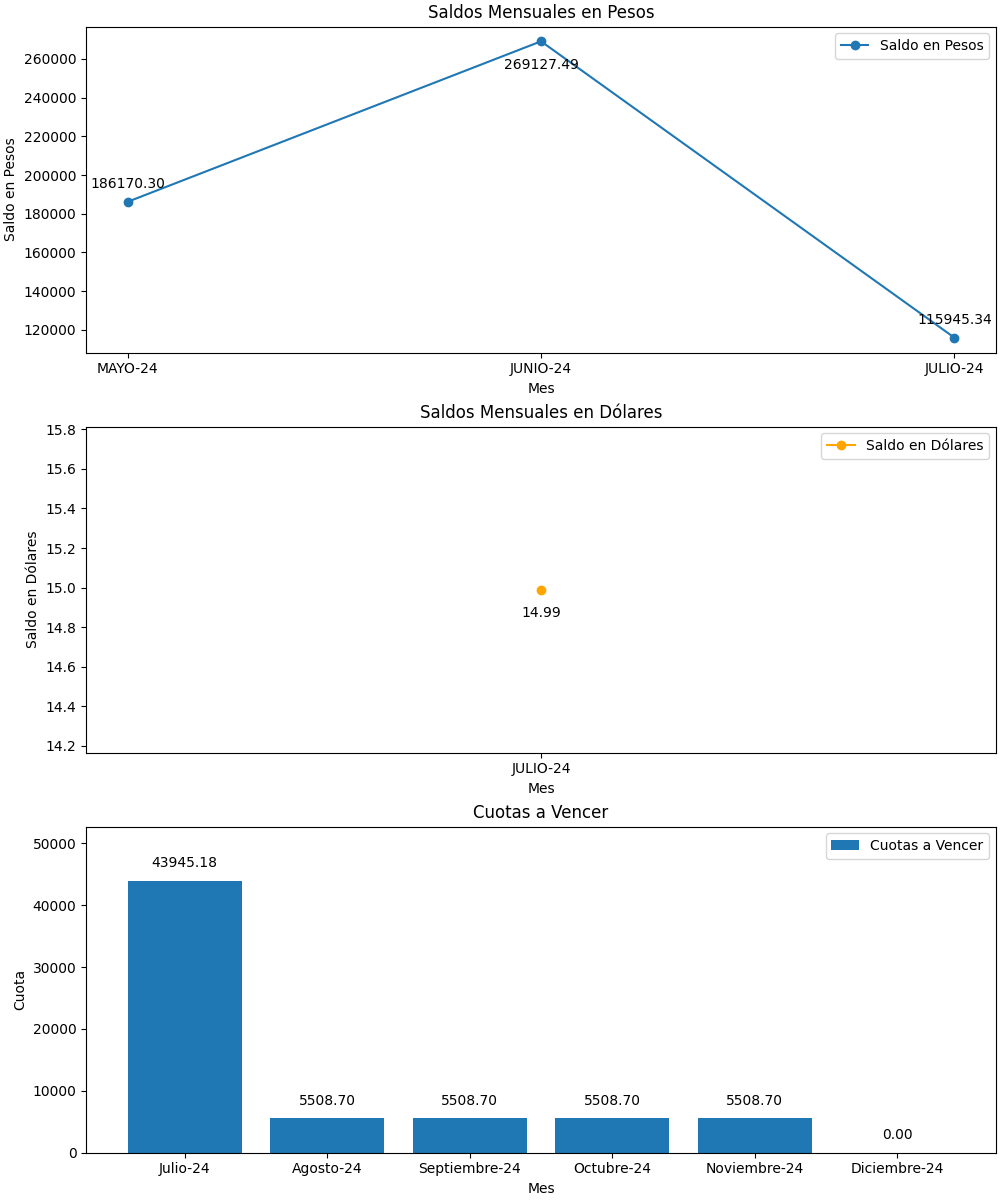
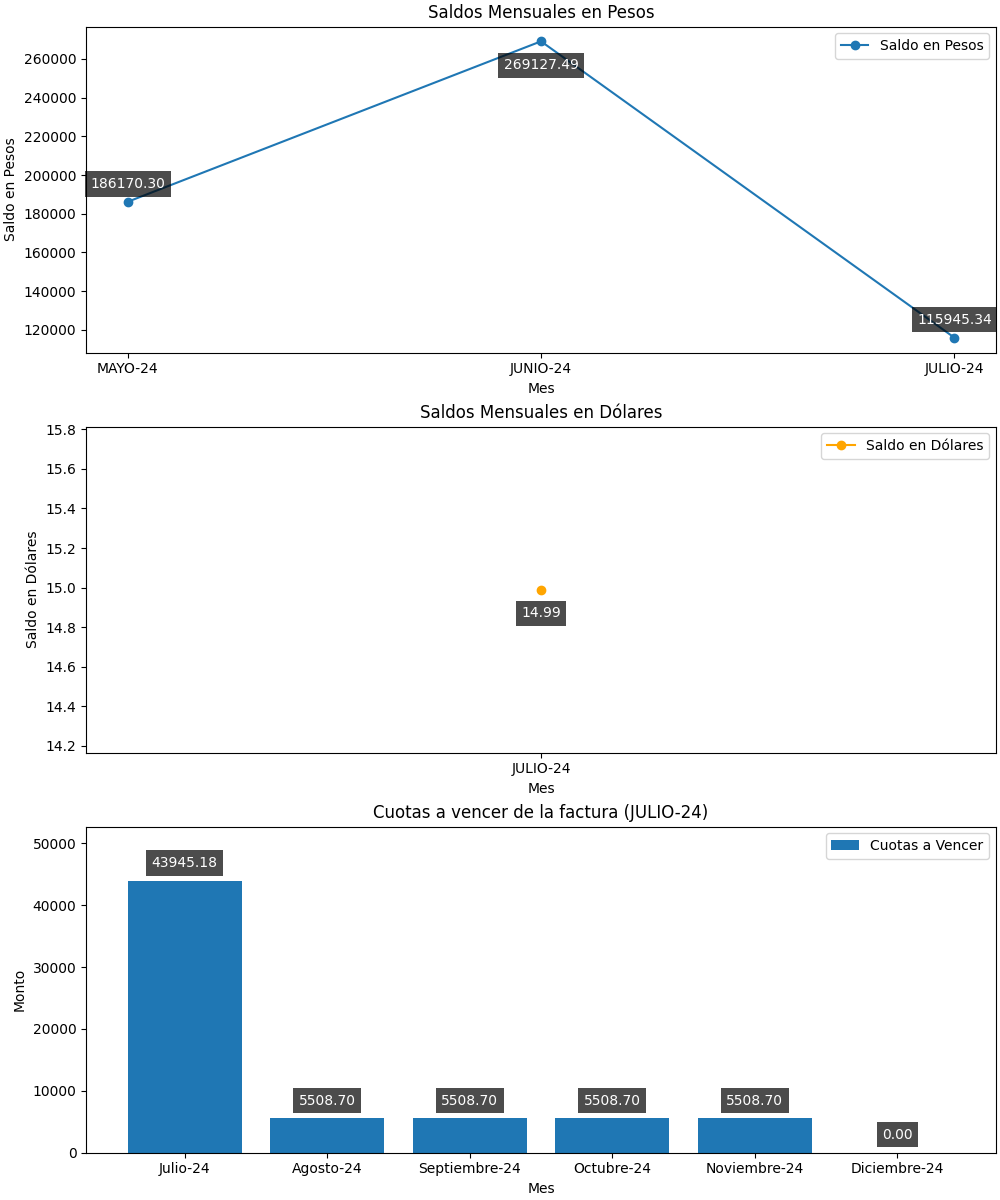
se mejora la lógica del código

diff --git a/main.py b/main.py
@@ -6,6 +6,7 @@ import os
 import matplotlib.pyplot as plt
 from datetime import datetime
 
+
 # Mapa de traducción de meses en español a inglés
 MONTH_TRANSLATION = {
     "ENERO": "January",
@@ -22,12 +23,14 @@ MONTH_TRANSLATION = {
     "DICIEMBRE": "December"
 }
 
+
 # Convertir los valores de los saldo a flotantes
 def convert_to_float(value):
     try:
         return float(round(Decimal(value.replace('.', '').replace(',', '.')), 2))
     except InvalidOperation:
         return None
+
 
 # Abrir factura
 def extract_text_from_pdf(pdf_file_path):
@@ -50,7 +53,8 @@ def extract_text_from_pdf(pdf_file_path):
         print(f'Error processing the file {pdf_file_path}: {e}')
         return None
 
-        
+
+# Extraer informacion de la factura con expresiones regulares        
 def extract_invoice_info(text):
     # Patrones de expresiones regulares
     mes_actual_pattern = r"\b([A-Z]+-[\d]{2})\b"
@@ -80,7 +84,7 @@ def extract_invoice_info(text):
         cuotas_line = cuotas_match.group(2)
 
         # Capturar los meses
-        meses_pattern = r"([A-Z]+[\d]{2}-)"
+        meses_pattern = r"([A-Z]+-[\d]{2})"
         meses = re.findall(meses_pattern, meses_line)
 
         # Capturar los valores de las cuotas
@@ -88,15 +92,15 @@ def extract_invoice_info(text):
         cuotas = re.findall(cuotas_pattern, cuotas_line)
         
         # Convertir los valores de las cuotas a float
-        cuotas = [convert_to_float(cuota) for cuota in cuotas]
-        meses = [mes.capitalize() for mes in meses]
+        monto_cuota = [convert_to_float(cuota) for cuota in cuotas]
+        mes_cuota = [mes.capitalize() for mes in meses]
         # Asociar meses y cuotas
-        cuotas_a_vencer = dict(zip(meses, cuotas))
+        cuotas_a_vencer = dict(zip(mes_cuota, monto_cuota))
+        cuotas_factura_actual = {mes_actual: cuotas_a_vencer}
     else:
         cuotas_a_vencer = {}
 
-        
-    return saldos, cuotas_a_vencer
+    return saldos, cuotas_factura_actual 
 
 
 # Iniciar base de datos con sus tablas
@@ -114,9 +118,10 @@ def database():
 
     cursor.execute('''
     CREATE TABLE IF NOT EXISTS cuotas (
-        mes TEXT,
-        cuota REAL,
-        PRIMARY KEY (mes, cuota)
+        mes_factura TEXT,
+        mes_cuota TEXT,
+        monto_cuota REAL,
+        PRIMARY KEY (mes_factura, mes_cuota)
     )
     ''')
 
@@ -130,7 +135,8 @@ def database():
     conn.close()
 
 
-def insert_data(saldos, cuotas_a_vencer, archivo):
+# Ingreso de datos a la base de datos
+def insert_data(saldos, cuotas_factura_actual, archivo):
     conn = sqlite3.connect('invoices.db')
     cursor = conn.cursor()
 
@@ -149,26 +155,26 @@ def insert_data(saldos, cuotas_a_vencer, archivo):
                 VALUES (?, ?, ?)
                 ''', (mes, saldo['pesos'], saldo['dolares']))
 
-    for mes, cuota in cuotas_a_vencer.items():
-        cursor.execute('SELECT mes, cuota FROM cuotas WHERE mes = ? AND cuota = ?', (mes, cuota))
-        if cursor.fetchone():
-            cursor.execute('''
-            UPDATE cuotas
-            SET cuota = ?
-            WHERE mes = ? AND cuota = ?
-            ''', (cuota, mes, cuota))
-        else:
-            cursor.execute('''
-            INSERT INTO cuotas (mes, cuota)
-            VALUES (?, ?)
-            ''', (mes, cuota))
+    for mes_factura, cuotas in cuotas_factura_actual.items():
+        for mes_cuota, monto_cuota in cuotas.items():
+            cursor.execute('SELECT mes_factura, mes_cuota FROM cuotas WHERE mes_factura = ? AND mes_cuota = ?', (mes_factura, mes_cuota))
+            if cursor.fetchone():
+                cursor.execute('''
+                UPDATE cuotas
+                SET monto_cuota = ?
+                WHERE mes_factura = ? AND mes_cuota = ?
+                ''', (monto_cuota, mes_factura, mes_cuota))
+            else:
+                cursor.execute('''
+                INSERT INTO cuotas (mes_factura, mes_cuota, monto_cuota)
+                VALUES (?, ?, ?)
+                ''', (mes_factura, mes_cuota, monto_cuota))
 
     # Marcar el archivo como procesado
     cursor.execute('INSERT INTO procesados (archivo) VALUES (?)', (archivo,))
 
     conn.commit()
     conn.close()
-
 
 
 # Verificación de los datos cargados
@@ -186,7 +192,7 @@ def verify_data():
     for row in cursor.fetchall():
         print(row)
 
-
+# Graficos
 def plot_data(save_path=None):
     conn = sqlite3.connect('invoices.db')
     cursor = conn.cursor()
@@ -194,7 +200,7 @@ def plot_data(save_path=None):
     cursor.execute('SELECT mes, saldo_pesos, saldo_dolares FROM saldos')
     saldos = cursor.fetchall()
 
-    cursor.execute('SELECT mes, cuota FROM cuotas')
+    cursor.execute('SELECT mes_factura, mes_cuota, monto_cuota FROM cuotas')
     cuotas = cursor.fetchall()
 
     conn.close()
@@ -206,7 +212,7 @@ def plot_data(save_path=None):
         return datetime.strptime(f"{mes_english}-{year}", '%B-%y')
 
     saldos.sort(key=lambda x: translate_month(x[0]))
-    cuotas.sort(key=lambda x: translate_month(x[0]))
+    cuotas.sort(key=lambda x: translate_month(x[1]))
 
     meses = [row[0] for row in saldos]
     saldo_pesos = [row[1] for row in saldos]
@@ -215,6 +221,17 @@ def plot_data(save_path=None):
     # Filtrar los meses que tienen saldo en dólares
     meses_dolares = [mes for mes, saldo in zip(meses, saldo_dolares) if saldo != 0]
     saldo_dolares_filtrado = [saldo for saldo in saldo_dolares if saldo != 0]
+
+    # Filtrar las cuotas de la factura más reciente
+    if cuotas:
+        cuotas.sort(key=lambda x: translate_month(x[0]), reverse=True)
+        mes_factura_reciente = cuotas[0][0]
+        cuotas_recientes = [monto_cuota for mes_factura, mes_cuota, monto_cuota in cuotas if mes_factura == mes_factura_reciente]
+        meses_cuotas_recientes = [mes_cuota for mes_factura, mes_cuota, monto_cuota in cuotas if mes_factura == mes_factura_reciente]
+    else:
+        mes_factura_reciente = "No encontrado"
+        cuotas_recientes = []
+        meses_cuotas_recientes = []
 
     fig, axs = plt.subplots(3, 1, figsize=(10, 12), constrained_layout=True)
 
@@ -230,7 +247,9 @@ def plot_data(save_path=None):
         horizontal_offset = 0  # Asegurar que las anotaciones estén centradas horizontalmente
         if i > 0 and saldo_pesos[i] < saldo_pesos[i-1]:
             vertical_offset = 10  # Ajustar posición para valores decrecientes
-        axs[0].annotate(f'{txt:.2f}', (meses[i], saldo_pesos[i]), textcoords="offset points", xytext=(horizontal_offset, vertical_offset), ha='center')
+        axs[0].annotate(f'{txt:.2f}', (meses[i], saldo_pesos[i]), 
+                        textcoords="offset points", xytext=(horizontal_offset, vertical_offset), 
+                        ha='center', color='white', bbox=dict(facecolor='black', alpha=0.7, edgecolor='none'))
 
     # Gráfico de Saldos en Dólares (solo si hay datos)
     if meses_dolares:
@@ -245,29 +264,31 @@ def plot_data(save_path=None):
             horizontal_offset = 0  # Asegurar que las anotaciones estén centradas horizontalmente
             if i > 0 and saldo_dolares_filtrado[i] < saldo_dolares_filtrado[i-1]:
                 vertical_offset = 10  # Ajustar posición para valores decrecientes
-            axs[1].annotate(f'{txt:.2f}', (meses_dolares[i], saldo_dolares_filtrado[i]), textcoords="offset points", xytext=(horizontal_offset, vertical_offset), ha='center')
+            axs[1].annotate(f'{txt:.2f}', (meses_dolares[i], saldo_dolares_filtrado[i]), 
+                            textcoords="offset points", xytext=(horizontal_offset, vertical_offset), 
+                            ha='center', color='white', bbox=dict(facecolor='black', alpha=0.7, edgecolor='none'))
 
-    # Gráfico de Cuotas a Vencer
-    meses_cuotas = [row[0] for row in cuotas]
-    valores_cuotas = [row[1] for row in cuotas]
+    # Gráfico de Cuotas a Vencer del Mes Más Reciente
+    if cuotas_recientes:
+        axs[2].bar(meses_cuotas_recientes, cuotas_recientes, label='Cuotas a Vencer')
+        axs[2].set_ylim(top=max(cuotas_recientes) * 1.2)  # Ajustar la escala de las barras para dar espacio a las anotaciones
+        axs[2].set_title(f'Cuotas a vencer de la factura ({mes_factura_reciente})')
+        axs[2].set_xlabel('Mes')
+        axs[2].set_ylabel('Monto')
+        axs[2].legend()
 
-    axs[2].bar(meses_cuotas, valores_cuotas, label='Cuotas a Vencer')
-    axs[2].set_ylim(top=max(valores_cuotas) * 1.2)  # Ajustar la escala de las barras para dar espacio a las anotaciones
-    axs[2].set_title('Cuotas a Vencer')
-    axs[2].set_xlabel('Mes')
-    axs[2].set_ylabel('Cuota')
-    axs[2].legend()
-
-    for i, txt in enumerate(valores_cuotas):
-        vertical_offset = 10  # Colocar la anotación ligeramente por encima de la barra
-        axs[2].annotate(f'{txt:.2f}', (meses_cuotas[i], valores_cuotas[i]), textcoords="offset points", xytext=(0, vertical_offset), ha='center')
+        for i, txt in enumerate(cuotas_recientes):
+            vertical_offset = 10  # Colocar la anotación ligeramente por encima de la barra
+            axs[2].annotate(f'{txt:.2f}', (meses_cuotas_recientes[i], txt), 
+                            textcoords="offset points", xytext=(0, vertical_offset), 
+                            ha='center', color='white', bbox=dict(facecolor='black', alpha=0.7, edgecolor='none'))
 
     if save_path:
         plt.savefig(save_path)
     plt.show()
 
 
-
+# Obtener facturas de la carpeta
 def get_files_in_folder(folder_path):
     files = []
     for root, dirs, filenames in os.walk(folder_path):
@@ -277,6 +298,7 @@ def get_files_in_folder(folder_path):
     return files
 
 
+# Procesar cada factura
 def process_pdfs_in_folder(folder_path):
     pdf_files = get_files_in_folder(folder_path)
     conn = sqlite3.connect('invoices.db')
@@ -314,9 +336,6 @@ if __name__ == '__main__':
     
     # Generar gráficos a partir de los datos
     plot_data(save_path=save_path)
-
-
-
 
 
 
